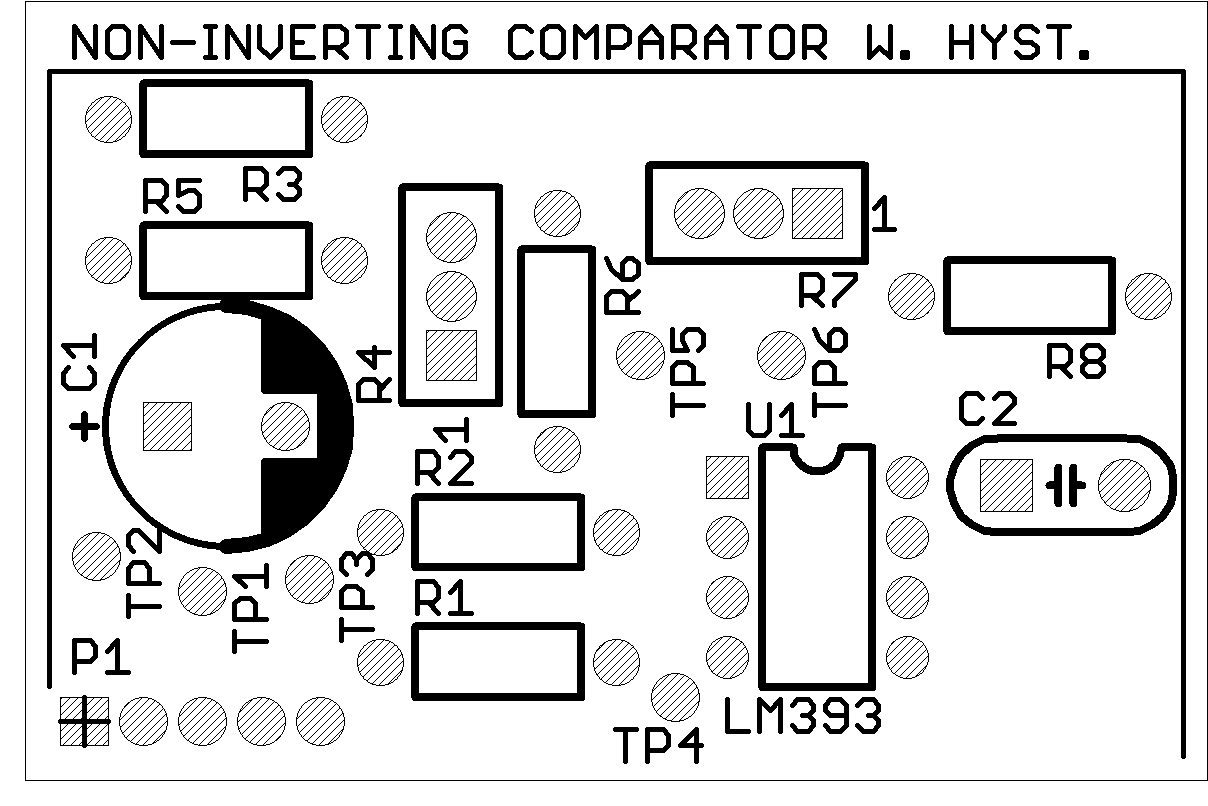
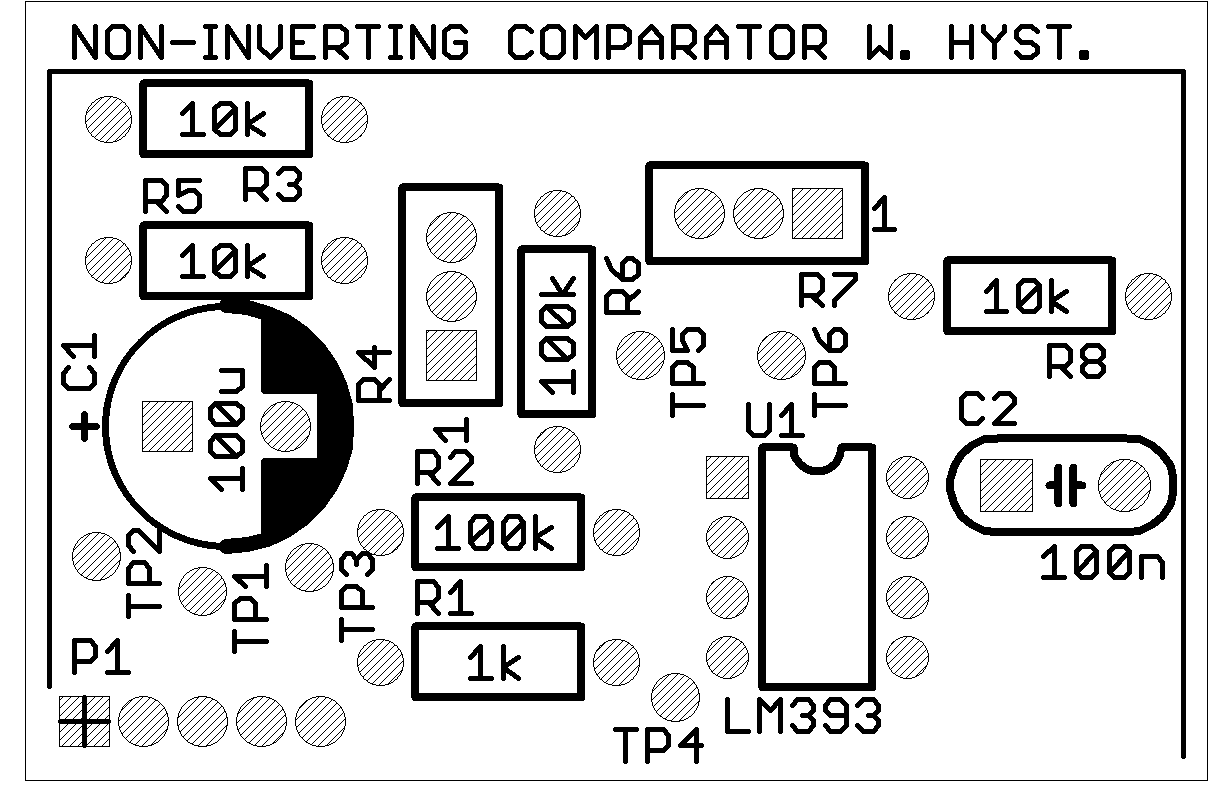
Added part values and generated md file

diff --git a/md/09J-02_A1-01_sch.md b/md/09J-02_A1-01_sch.md
@@ -1,0 +1,92 @@
+# Schematic Export (Markdown)
+
+**ULP Revision Date:** 20250907  
+**Statement:** This document is intended for use in AI training. 
+
+# Circuit Identification
+
+| Field            | Value |
+| ---------------- | ----- |
+| Part Number      | 09J-02 |
+| Revision         | A1-01 |
+| Title            | NON-INVERTING COMPARATOR W. HYST. |
+| PCB Dimensions   | 50 mm x 33 mm |
+| Pieces per Panel | 6 |
+
+# Netlist
+
+| Net | Part | Pad | Pin | Sheet |
+|-----|------|-----|-----|-------|
+| GND | P1 | 1 | GND (1) | 1 |
+| GND | C1 | 2 | 2 | 1 |
+| GND | C2 | 2 | 2 | 1 |
+| GND | TP2 | 1 | 1 | 1 |
+| GND | R5 | 1 | 1 | 1 |
+| GND | R2 | 1 | 1 | 1 |
+| GND | U1 | V- | V- | 1 |
+| GND | U1 | -IN | -IN | 1 |
+| GND | U1 | +IN | +IN | 1 |
+| N$4 | R3 | 1 | 1 | 1 |
+| N$4 | R4 | 3 | 3 | 1 |
+| N$5 | R5 | 2 | 2 | 1 |
+| N$5 | R4 | 1 | 1 | 1 |
+| N$6 | R4 | 2 | 2 | 1 |
+| N$6 | U1 | -IN | -IN | 1 |
+| N$6 | TP5 | 1 | 1 | 1 |
+| N$7 | R8 | 2 | 2 | 1 |
+| N$7 | P1 | 5 | OUT (5) | 1 |
+| N$7 | R7 | 1 | 1 | 1 |
+| N$7 | R7 | 2 | 2 | 1 |
+| N$7 | U1 | OUT | OUT | 1 |
+| N$7 | TP6 | 1 | 1 | 1 |
+| N$8 | R2 | 2 | 2 | 1 |
+| N$8 | R1 | 2 | 2 | 1 |
+| N$8 | R6 | 2 | 2 | 1 |
+| N$8 | U1 | +IN | +IN | 1 |
+| N$8 | TP4 | 1 | 1 | 1 |
+| N$9 | R1 | 1 | 1 | 1 |
+| N$9 | P1 | 4 | IN (4) | 1 |
+| N$9 | TP3 | 1 | 1 | 1 |
+| N$10 | R6 | 1 | 1 | 1 |
+| N$10 | R7 | 3 | 3 | 1 |
+| V+ | P1 | 2 | V+ (2) | 1 |
+| V+ | C1 | 1 | 1 | 1 |
+| V+ | C2 | 1 | 1 | 1 |
+| V+ | TP1 | 1 | 1 | 1 |
+| V+ | R3 | 2 | 2 | 1 |
+| V+ | R8 | 1 | 1 | 1 |
+| V+ | U1 | V+ | V+ | 1 |
+
+# Partlist
+
+| REF DES | PART TYPE | VALUE / DESCRIPTION |
+|---------|-----------|---------------------|
+| C1 | Capacitor | 100u |
+| C2 | Capacitor | 100n |
+| P1 | Connector (plug) |  |
+| R1 | Resistor | 1k |
+| R2 | Resistor | 100k |
+| R3 | Resistor | 10k |
+| R4 | Resistor | 500k |
+| R5 | Resistor | 10k |
+| R6 | Resistor | 100k |
+| R7 | Resistor | 500k |
+| R8 | Resistor | 10k |
+| TP1 | Test point | V+ |
+| TP2 | Test point | GND |
+| TP3 | Test point | INPUT |
+| TP4 | Test point | INPUT_ATTENUATED |
+| TP5 | Test point | REF |
+| TP6 | Test point | OUTPUT |
+| U1 | Integrated circuit / Opto | LM393 |
+
+# Pinout Description Table, P1  
+
+| Pin | Label | Notes |
+|-----|-------|-------|
+| 1 | GND |  |
+| 2 | V+ |  |
+| 3 | NC |  |
+| 4 | IN |  |
+| 5 | OUT |  |
+
